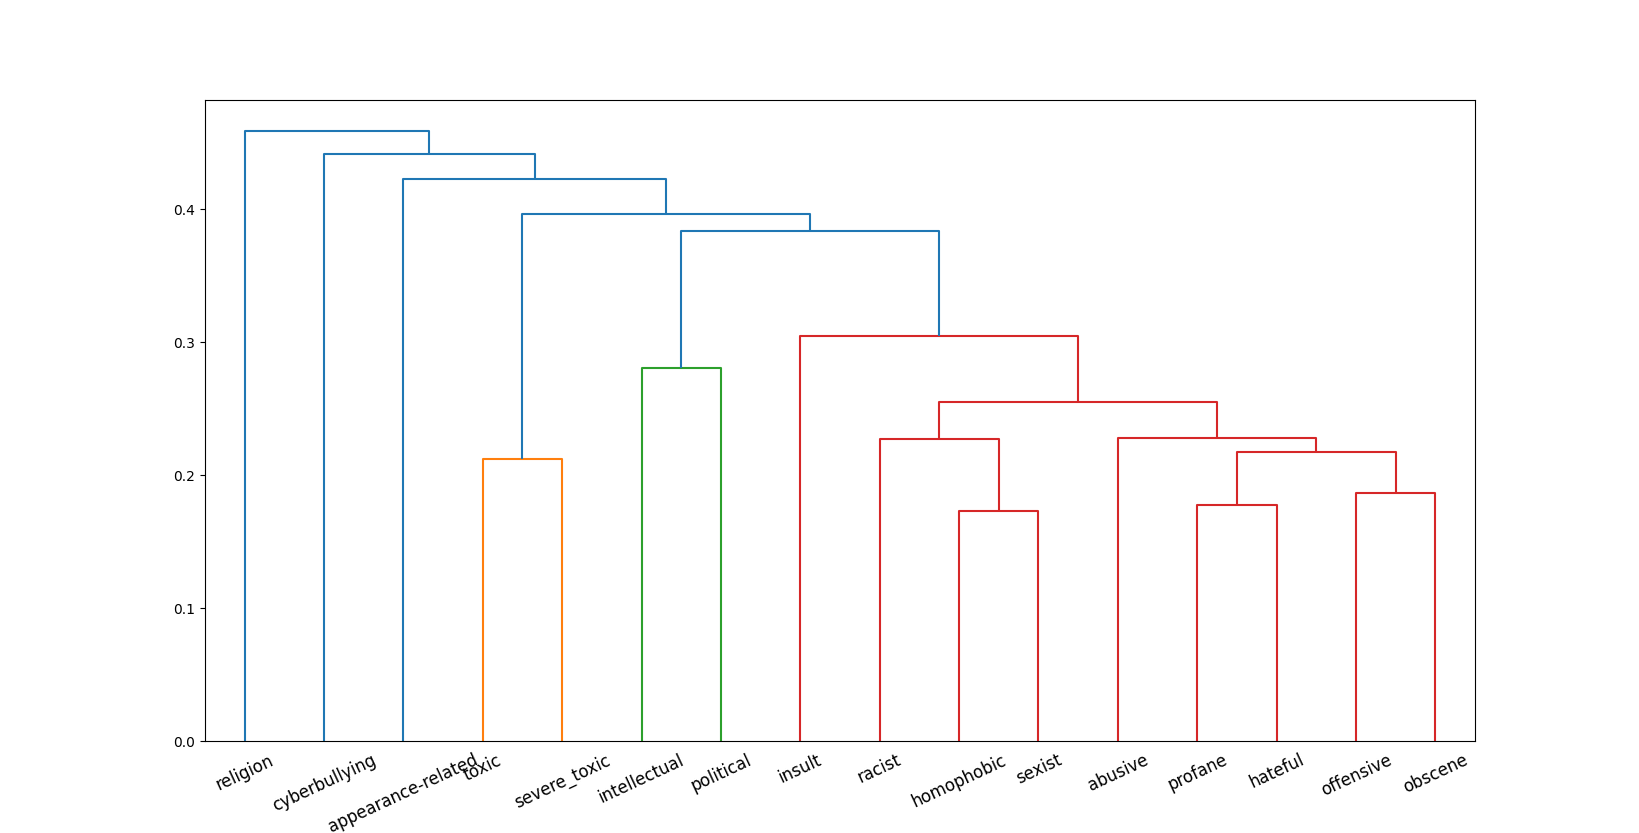
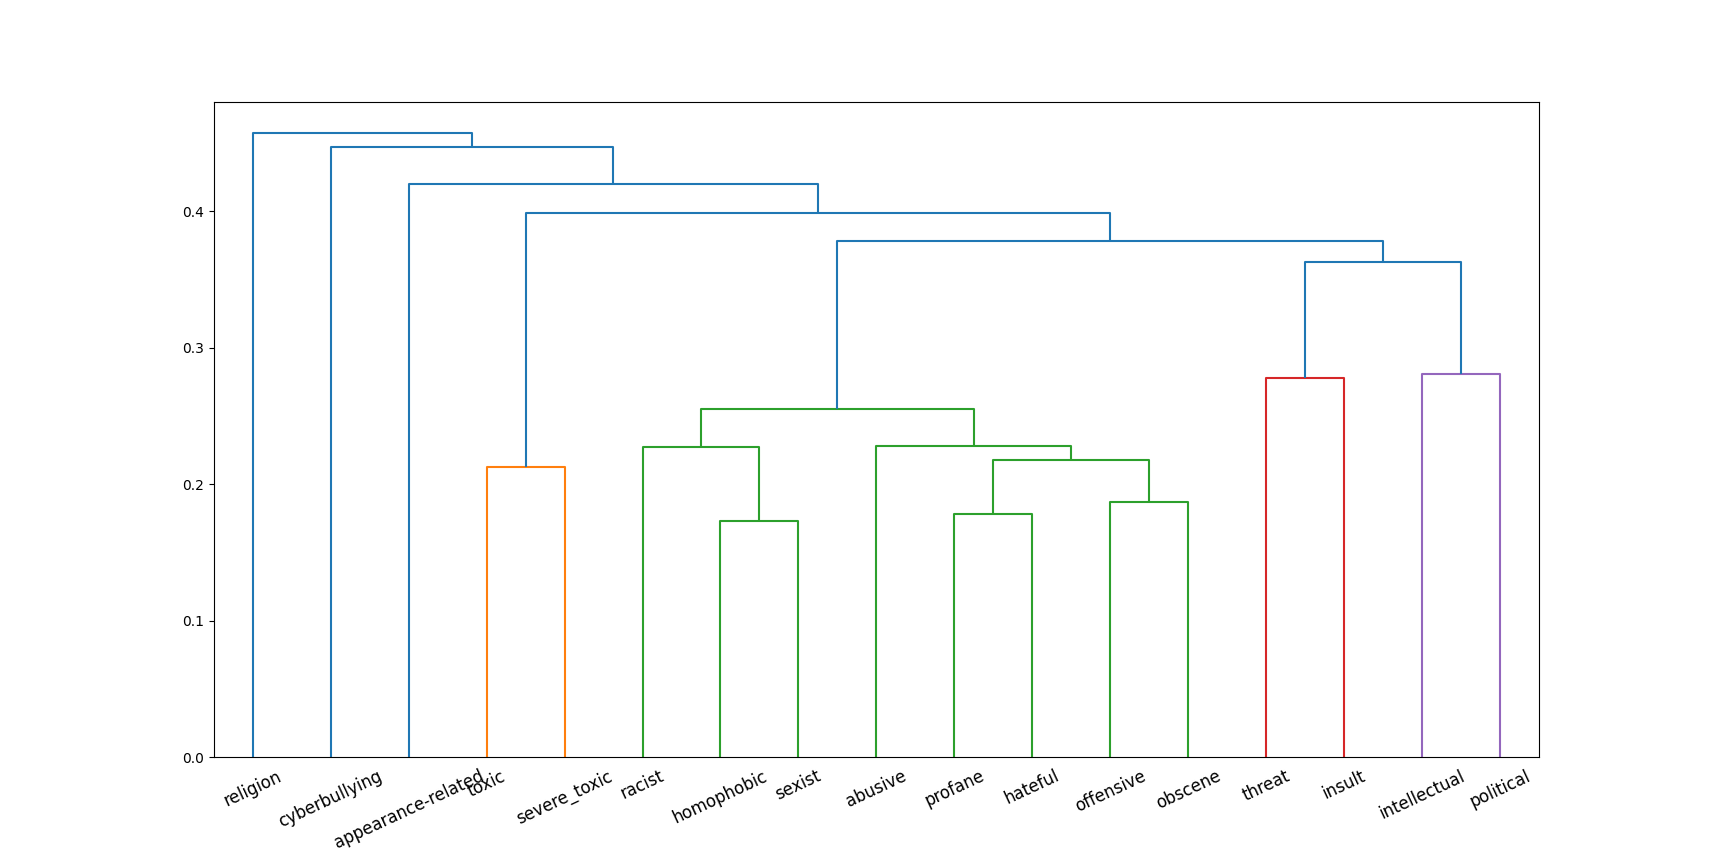
added threat to BERT

diff --git a/bert_vectors.py b/bert_vectors.py
@@ -1110,6 +1110,163 @@ mean[10] = tensor([ 2.7645e-01,  2.9270e-01,  3.0537e-01, -2.7301e-01, -1.3556e-
 
 sent[10] = "FUCK YOU NATLIE YOU DUMBASS CUNTBAG! I HAVE A DYNAMIC IP U CANNOT BAN ME TOUGH SHIT AINT IT CUNT? so go suck some random ass fuckers cock, before i vandalize your entire site.. B-I-O-T-C-H! DONT MAKE ME COME FIND YOUR ASS IN OHIO, I READ YOUR WIKI ENTRY! KNOCK KNOCK* YOUR DUMB PUTTING THAT MUCH PERSONAL INFO OUT THERE AND CALLING OUT TROLLS WITH DYNAMIC IP RANGES YOU DUMB BITCH!"
 
+mean[11] = tensor([ 3.5059e-01,  3.7075e-01,  3.2717e-01, -3.5658e-01, -1.8401e-01,
+        -6.1970e-02,  2.6885e-01,  4.9889e-01, -1.1943e-01, -1.2530e-01,
+         1.1779e-01, -3.3195e-01, -2.8655e-01,  3.8293e-01, -2.1169e-01,
+         6.7963e-01, -1.7705e-01,  2.0741e-01, -2.9433e-01,  4.3294e-01,
+         3.6073e-01,  2.0918e-01, -9.1899e-02,  7.2883e-03,  2.6348e-01,
+         2.2271e-01, -2.8148e-02, -1.6331e-01, -3.9629e-01,  7.3247e-02,
+         3.3939e-01, -1.0695e-02,  8.4118e-02, -2.5605e-01,  1.1354e-01,
+        -3.2891e-01, -2.2363e-02,  4.9820e-02, -1.6295e-02,  1.7508e-01,
+        -3.3164e-01, -2.5603e-01,  1.2197e-01, -1.3128e-01, -2.3263e-03,
+        -2.2184e-01,  3.1194e-01, -2.7015e-01,  3.5891e-02, -2.6753e-01,
+        -3.7893e-01,  1.5759e-01, -4.6895e-01, -4.7870e-01,  2.6937e-01,
+         1.8924e-01,  4.7376e-02, -5.9060e-01, -3.5978e-01,  8.2165e-02,
+        -1.6190e-01, -3.1492e-02,  1.6868e-01, -1.4224e-01, -2.3116e-01,
+         2.1832e-01,  1.2975e-01,  3.6757e-01, -6.0244e-01, -1.1960e-01,
+        -8.2933e-02, -1.2006e-01,  1.1830e-01,  1.4457e-01,  2.0294e-01,
+        -2.8826e-01, -1.8917e-01,  1.9466e-01, -3.4433e-01,  6.6005e-04,
+         4.4796e-02,  2.3921e-01,  6.3836e-02,  1.6406e-01,  5.4014e-02,
+         4.6151e-02,  8.0733e-02,  1.8669e-01, -2.6682e-01,  2.4199e-01,
+        -1.3884e-01, -7.3430e-02,  3.6655e-02, -2.4683e-02,  4.8379e-01,
+        -3.3485e-01,  1.5252e-03,  1.6933e-01, -8.4642e-02, -2.1864e-01,
+         4.1244e-01, -3.3921e-01,  3.8871e-02, -5.4459e-01, -9.6324e-02,
+         8.1809e-03, -8.1540e-02, -1.8427e-02,  3.4483e-01, -1.5992e-01,
+         1.3260e-01, -1.0965e-01,  1.1111e-01, -5.3816e-01,  5.3695e-02,
+         2.8059e-01, -2.9692e-01, -5.3812e-02,  3.5836e-01, -1.5437e-01,
+        -2.2593e-01, -1.4900e-01,  1.3166e-01,  1.7427e-01,  1.8300e-01,
+         4.4794e-02, -9.2913e-02, -1.3654e-01,  8.3745e-02,  1.3023e-01,
+         3.0319e-01,  2.5357e-01,  1.6809e-01, -2.7128e-01,  3.8658e-02,
+         1.2812e-01,  2.5968e-01, -3.4907e-01, -2.9237e-01, -3.0670e-01,
+        -2.6923e-01, -3.3671e-01, -3.8735e-02,  4.7384e-01,  1.9727e-01,
+        -9.2994e-02, -4.0846e-01, -2.6618e-02,  1.7460e-01,  4.6088e-02,
+        -2.5179e-01,  2.3837e-01, -2.8446e-01, -2.8987e-01, -3.4071e-01,
+        -1.9092e-01, -1.6444e-01, -1.7267e-01,  1.8910e-01,  8.2247e-02,
+         2.1692e-01, -3.3193e-01, -1.9598e-01,  1.9381e-01,  2.5515e-01,
+        -1.9906e-01, -1.9184e-02,  2.2004e-01, -3.9237e-02, -1.7445e-01,
+         8.8766e-02, -1.6008e-01,  3.8808e-01,  1.8922e-01,  5.0101e-01,
+        -7.4862e-02,  2.0473e-01, -8.7399e-03, -1.2835e-01,  4.6593e-01,
+        -4.7244e-01,  3.8613e-02, -7.9827e-02,  1.4344e-01, -7.3670e-02,
+         2.6029e-01,  5.0599e-01, -3.4153e-01,  3.0621e-01,  2.6041e-01,
+        -3.0284e-01,  5.5081e-02,  1.3220e-01, -3.9779e-02,  3.3013e-01,
+        -3.3047e-01, -3.1998e-01, -5.5592e-01,  3.9586e-02,  1.1171e-01,
+        -1.7719e-01,  2.8570e-01,  4.0418e-02, -1.2544e-01, -4.0381e-01,
+         4.8995e-01, -2.5847e-01, -5.7847e-02, -2.5507e-01,  2.1685e-01,
+        -5.8277e-02,  2.1719e-01, -1.7308e-01,  9.9629e-02, -9.4328e-02,
+         5.8643e-02, -8.4795e-02,  3.8322e-02,  2.0503e-01, -1.2212e-01,
+        -1.0023e-01, -2.6010e-01, -4.2856e-01, -5.9401e-02, -5.7967e-02,
+         8.7060e-01,  1.4854e-01, -3.7891e-01,  2.7005e-01, -4.9699e-02,
+        -1.7824e-02, -2.0696e-01,  6.0393e-02, -9.8036e-02, -4.9040e-03,
+         3.3799e-01,  1.6325e-01, -3.6056e-01, -2.0576e-02, -8.0928e-02,
+        -4.2488e-01,  3.1872e-01,  1.7333e-01,  1.4506e-01, -1.6985e-01,
+         3.8690e-01, -2.9370e-01, -3.7175e-01, -2.3296e-01,  1.6884e-01,
+        -3.3290e-01, -1.5143e-01, -2.4717e-01, -3.7329e-01,  4.1050e-02,
+        -3.0262e-01, -2.6551e-01, -1.0512e-01, -3.1201e-01, -3.0770e-01,
+         9.3117e-02, -2.8727e-01, -1.3773e-01,  1.4861e-01,  5.2693e-02,
+        -9.8141e-02,  5.4020e-02,  2.9725e-01,  3.2903e-01,  3.3956e-01,
+         8.3291e-02,  2.3319e-01, -1.1239e-01,  4.6623e-01,  2.8841e-02,
+        -1.6912e-02,  1.9529e-01,  1.4507e-01,  1.9811e-02, -3.2180e-01,
+        -1.4616e-03,  2.7571e-01, -3.6321e-01,  1.0025e-01, -1.0410e-01,
+        -2.3022e-01,  6.6695e-01,  2.6758e-01, -2.1679e-01, -1.7660e-01,
+        -2.9979e-01, -4.4040e-02, -4.2485e-01, -1.1087e-01,  4.7000e-01,
+        -2.1704e-01,  1.1398e-02,  1.7308e-01, -9.1608e-02, -2.0397e-01,
+        -1.2444e-01,  8.8616e-02, -2.8627e-01,  2.2656e-01,  1.4652e-01,
+        -8.5638e-02, -4.7204e-01, -1.5143e-01, -8.2335e+00,  8.6811e-03,
+         9.5239e-02,  1.6428e-02,  4.8414e-01, -4.7338e-02,  4.1004e-02,
+        -1.5335e-01, -4.2221e-01,  4.0297e-03, -2.1068e-02, -2.6864e-01,
+         1.5843e-01, -2.8587e-01,  2.8264e-02, -4.4881e-01,  3.2126e-01,
+        -4.3328e-01, -1.9767e-01,  6.1494e-01, -1.6502e-01, -1.2609e-01,
+         3.5863e-01, -8.3931e-02,  1.8184e-01,  4.1588e-01,  1.2931e-01,
+        -1.1649e-01,  6.8477e-02, -1.8435e-01, -4.0349e-01, -2.7660e-01,
+        -1.1846e-01,  6.5105e-01, -1.4286e-01,  7.7301e-02, -1.2420e-01,
+        -2.9081e-01, -2.0356e-01, -2.1318e-01,  1.7291e-01, -6.8362e-01,
+        -3.0474e-01, -1.1501e-01,  7.7710e-01, -3.8511e-01, -1.3111e-01,
+        -5.0038e-02,  4.9290e-02,  2.8733e-02, -2.0585e-01, -2.4045e-01,
+         9.0892e-02, -4.2205e-01,  1.9516e-01,  2.3037e-01,  2.5531e-01,
+         9.1175e-01,  1.3966e-01, -6.3814e-01,  3.7681e-01, -3.0841e-01,
+        -6.8122e-01,  1.8875e-01,  2.3855e-02, -1.2504e-01, -3.7141e-01,
+        -5.1152e-01, -1.6576e-02, -4.9429e-02, -2.7122e-01,  5.7450e-01,
+         2.2114e-02, -1.1071e+00, -3.5363e-01,  1.6456e-01, -1.8376e-01,
+         1.3364e-01, -3.8427e-01, -1.1198e-01, -4.9554e-01, -4.5331e-01,
+         7.3835e-02,  2.2303e-02, -2.3497e-01, -2.4078e-01, -9.7614e-02,
+        -6.9995e-02, -2.2895e-01,  5.7294e-02,  7.0800e-02,  8.2189e-02,
+         1.1653e-01,  1.3870e-01,  1.3370e-01, -2.9816e-02,  4.8409e-01,
+        -2.2737e-01, -1.9680e-01, -5.3141e-02,  7.8933e-02, -7.6906e-02,
+         3.6626e-01, -1.6907e-01, -4.4941e-02, -1.0238e-01, -1.1658e-01,
+        -1.3583e-03, -3.0630e-01,  7.7721e-02,  1.4004e-01, -9.9724e-02,
+         3.5274e-02,  1.4567e-01, -1.3054e-01, -3.4874e-01,  7.3711e-02,
+         3.1687e-01,  5.4531e-02, -4.6590e-01, -2.3865e-01,  2.5646e-01,
+        -6.1201e-01, -4.0161e-01, -3.3875e-02, -6.8970e-02, -8.3353e-02,
+         2.0538e-01, -1.9062e-01, -2.2497e-03, -1.0612e-01, -3.8003e-02,
+        -4.3672e-01,  1.1442e-01,  4.1149e-02,  1.5896e-02, -5.8910e-02,
+        -5.9031e-01, -2.6186e-01,  3.0571e-01,  1.1880e-01,  3.5516e-01,
+         1.8749e-01,  1.6633e-01, -1.7869e-01,  1.5189e-01, -2.6387e-01,
+         1.5974e-02,  1.6093e-02,  4.5417e-01, -2.0019e-01, -6.1172e-01,
+         7.6304e-02, -3.2636e-01,  1.1614e-01,  4.1408e-01,  9.2364e-02,
+        -9.6334e-02,  9.8111e-02, -4.8800e-01,  3.0202e-02, -2.1629e-02,
+        -1.2814e-01,  2.2336e-01,  2.3685e-01,  1.6687e-01, -1.4566e-01,
+        -3.3429e-02, -1.5883e-01, -1.1895e-01, -1.7819e-01,  3.3846e-01,
+         2.4863e-01,  1.4895e-01,  2.0075e-01,  1.7985e-01, -7.8423e-02,
+        -1.3358e-01,  2.4131e-01, -7.9173e-02, -9.8648e-02,  6.8322e-02,
+        -9.9759e-04, -2.1110e-01,  2.7155e-01, -1.0062e-01,  2.0396e-01,
+         4.7154e-02, -1.7728e-02,  2.0336e-01, -7.2763e-01,  4.8320e-01,
+        -3.8724e-02, -2.6528e-01, -1.1693e-01, -3.9516e-01,  2.2004e-01,
+        -3.4386e-01,  4.6498e-02,  7.1232e-01,  1.3370e-01,  7.4456e-03,
+        -1.2878e-01,  3.1587e-01, -2.6513e-01,  1.4591e-02, -1.8717e-01,
+         3.3225e-01,  1.5552e-01,  1.4112e-01,  4.5058e-02, -2.3474e-01,
+        -1.6962e-01, -1.6908e-01,  1.3674e-02, -3.7479e-01,  1.0455e-02,
+        -3.8451e-01, -9.0378e-01,  3.3905e-01, -1.4057e-01, -1.9279e-01,
+        -1.3322e-01,  3.5240e-01, -5.2725e-01,  5.4333e-03, -2.0434e-01,
+        -9.6811e-02,  1.5542e-01,  2.0346e-01,  1.2471e-02, -1.0444e+00,
+         2.4438e-01, -1.7802e-02, -9.6871e-02, -1.6994e-01,  2.0559e-01,
+         7.5135e-03, -8.1692e-02, -1.1993e-01,  6.9056e-02, -4.3095e-01,
+        -1.8122e-01, -2.0613e-01,  3.8991e-02,  6.1598e-02, -1.7104e-01,
+         9.4275e-02, -2.3927e-01, -7.8088e-02,  2.4388e-01,  3.9315e-03,
+        -2.1217e-01, -4.5728e-01, -1.2636e-02, -5.4941e-01, -3.7520e-01,
+         1.5149e-01,  1.8179e-01,  1.5430e-01, -1.6843e-01,  1.2390e-01,
+         2.6906e-01,  9.0122e-02, -2.0361e-02, -5.2731e-02,  2.1862e-01,
+         1.5515e-01, -3.2030e-01, -1.8360e-01, -1.7164e-01, -1.7745e-01,
+        -4.4674e-02, -1.6524e-01,  1.4028e-01,  7.1568e-03, -3.6920e-01,
+        -3.9055e-01,  3.3179e-01, -3.4067e-01, -1.0503e-01, -3.6253e-02,
+        -8.2927e-03, -1.0831e-01,  4.8369e-02, -4.3040e-01,  9.3272e-02,
+        -1.1824e-02, -1.5360e-01,  1.9392e-01,  1.5940e-01,  2.7795e-01,
+         6.0803e-02, -1.3015e-02,  1.2233e-01,  4.5946e-01,  4.9325e-01,
+        -1.6048e-01,  1.2570e-01,  9.8031e-02, -8.1742e-02, -1.7582e-02,
+         2.6855e-01,  1.3736e-01,  6.8576e-03,  1.3277e-01,  1.0870e-01,
+        -1.3303e-01, -9.1550e-02,  2.1777e-01, -4.1148e-01, -2.8402e-01,
+         5.5180e-01,  1.6589e-01, -1.3651e-02, -2.4498e-01, -1.2910e-01,
+        -1.3029e-01, -2.4990e-01, -9.0193e-02,  8.7793e-03,  1.3981e-01,
+         5.4858e-01,  2.6001e-02,  1.9550e-02,  1.8513e-01, -1.9477e-01,
+         9.8519e-02,  2.4699e-01,  2.9157e-01, -3.1194e-01,  3.9277e-02,
+        -2.2986e-01,  2.8561e-01, -3.9204e-04, -1.2270e-01,  9.0748e-02,
+        -1.3967e-01,  1.4122e-01,  2.6923e-01,  2.5165e-02,  1.6462e-01,
+         1.7709e-03,  4.4350e-01,  1.3081e-01, -7.8252e-03, -3.2954e-01,
+        -3.4621e-04,  7.1327e-01,  3.3139e-01,  1.6950e-01, -2.1683e-02,
+         8.5900e-02, -1.6251e-02,  4.8637e-01,  1.6740e-02,  1.5754e-01,
+         1.6574e-01, -1.3944e-01,  4.4796e-01,  1.9929e-01,  1.1080e-01,
+        -2.3682e-02, -3.1549e-01,  1.1053e-02,  6.0849e-02,  1.6850e-01,
+        -5.7994e-02, -9.9308e-02, -1.3191e-01,  1.0249e-01, -1.7652e-01,
+         2.5911e-01,  5.9601e-02, -1.6966e-01,  1.3382e-01, -1.6727e-01,
+        -1.5407e-01, -1.0518e-01, -7.4425e-02, -2.9645e-01,  7.5208e-02,
+        -2.7054e-01, -2.3454e-01,  1.8624e-01, -2.5717e-01, -1.1647e-01,
+        -3.4990e-01,  5.5430e-02, -2.7717e-01, -2.9517e-01,  1.9326e-02,
+        -4.3748e-03, -1.1738e-01,  1.8636e-01, -8.7535e-02,  9.7430e-02,
+         6.0237e-02,  3.1746e-01,  1.3050e-01,  1.2657e-01,  4.3071e-02,
+        -1.1988e-01,  1.9137e-01, -7.7935e-02,  3.8017e-02, -3.3603e-01,
+        -6.8096e-03, -1.9703e-01, -4.0833e-01, -1.2304e-02,  4.9369e-01,
+        -7.6274e-02,  2.9343e-01,  1.2005e-02,  1.9983e-01, -4.9460e-02,
+        -4.5594e-01, -2.4786e-01, -1.3087e-01, -3.1617e-01, -6.6713e-01,
+        -2.3794e-01,  1.9449e-01, -4.1635e-03, -4.1479e-01,  2.2631e-01,
+        -1.2820e-01, -3.8691e-02,  2.9442e-03, -1.4259e-02,  2.9599e-01,
+         9.4435e-02, -2.5368e-01, -2.0743e-01, -2.3271e-01, -7.0831e-02,
+         4.2369e-02, -9.5437e-02, -8.1357e-02,  1.8530e-01,  1.3671e-01,
+        -1.6049e-01, -1.0483e-01,  1.6617e-01,  1.3824e-01,  1.1997e-01,
+        -1.7151e-01, -1.5571e-01,  2.5017e-02, -3.4149e-01,  9.0193e-03,
+         1.8238e-02, -2.2287e-01,  1.1541e-02,  2.5292e-01, -1.2899e-01,
+        -3.3882e-01,  1.5074e-01, -5.6008e-02])
+
+sent[11] = "BTW, I love to harrass, so try banning me for a year to stop me. I WISH ZHANZHAO DIE DIE DIE! I WILL RAPE YOU, YOUR MOTHER AND YOUR GAY FRIEND's ASS!!! Nuff' said"
+
 mean[13] = tensor([2.9773e-01, 9.1531e-02, 4.1314e-01, -2.0627e-01, 3.4043e-02,
                    -1.9515e-01, 2.5373e-01, 5.2316e-01, -2.9996e-01, -1.6494e-01,
                    4.3636e-02, -3.1409e-01, -7.0421e-02, 3.0959e-01, -1.2159e-01,
@@ -5645,6 +5802,163 @@ mean3[10] = tensor([ 1.1264e+00,  7.4301e-01,  2.3260e-01, -4.7148e-01, -5.6543e
          2.8489e-01, -5.5739e-01, -3.1573e-01])
 
 sent3[10] = "is all pretty gay if u ask me...bunch or fucking retards. You are a wife beater/cunt slapper. That's right I called your wife a cunt. BITCHES!!!!."
+
+mean3[11] = tensor([ 9.0207e-01, -3.8312e-01,  9.2688e-01, -8.3139e-01,  7.9668e-01,
+        -4.8623e-01,  4.8218e-01,  1.6361e-01,  1.6759e-01, -5.7382e-01,
+        -4.5831e-01, -1.0176e+00, -3.2602e-01,  7.3628e-01, -1.1693e+00,
+        -5.7170e-02,  3.4783e-01, -5.6915e-01,  5.5215e-01,  9.7830e-02,
+         3.0572e-01,  1.1192e-01,  9.7007e-01, -4.7283e-01,  1.8188e-01,
+         6.4321e-01,  2.6581e-01,  4.7226e-01, -1.0874e+00,  4.4405e-01,
+         6.4255e-01,  4.4154e-01,  1.7161e-01,  1.6451e-01, -1.0830e+00,
+        -7.5210e-01,  4.1676e-02,  9.4120e-01, -9.6180e-01,  2.2283e-01,
+        -3.1674e-01,  6.3931e-01, -2.5887e-01,  2.2737e-01,  5.3427e-03,
+        -2.4624e-01, -8.3739e-01, -5.4767e-01,  6.2636e-01, -5.5939e-01,
+        -1.6186e+00,  1.0659e+00, -1.2946e+00, -7.3393e-01, -3.0013e-02,
+        -2.0715e-01,  1.9559e-01, -7.7742e-01, -4.4016e-02, -6.8619e-01,
+         3.1775e-01, -2.2203e-01,  3.9092e-01,  2.4609e-01, -4.8160e-01,
+         1.9280e-01,  3.8155e-01, -2.5090e-01, -2.6958e-01, -9.9860e-01,
+        -1.1615e+00,  1.6133e-01, -1.0424e+00,  5.4370e-01,  4.0788e-01,
+         2.7153e-01,  8.8529e-02,  7.5507e-05, -1.8838e-01,  3.6293e-01,
+         1.0350e+00, -5.7297e-01, -2.5971e-01, -8.2764e-01,  1.5716e-01,
+        -4.0650e-01, -3.7093e-02,  5.4216e-01, -2.0341e-01,  1.1113e+00,
+         7.6687e-01,  4.9196e-01,  6.2321e-02,  4.9171e-01,  1.1294e+00,
+        -2.6465e-01,  7.0558e-01,  1.6788e-02, -3.4038e-01, -5.8814e-01,
+         8.2223e-01,  6.3682e-01, -1.2766e-01, -1.3294e+00, -6.1439e-01,
+        -2.1537e-01, -5.5249e-01, -5.1003e-01,  6.1032e-02,  4.6820e-01,
+        -8.5691e-01,  6.3215e-01,  6.9571e-01, -5.5062e-01, -8.1410e-01,
+         5.8908e-01, -9.0039e-01, -5.2408e-01,  2.6453e-01, -3.5449e-01,
+         3.0473e-01,  1.3852e-02,  2.4026e-01,  2.5166e-01,  3.7844e-01,
+         7.7140e-01,  4.1091e-02,  4.1546e-01,  7.3296e-02,  2.9487e-01,
+         2.1716e-01,  7.2141e-01, -5.0422e-01,  5.3573e-01, -4.2477e-01,
+         8.3926e-02,  1.3668e+00, -1.0220e+00, -9.3606e-02, -5.7959e-01,
+         8.4492e-01,  2.0791e-01, -1.7582e-01,  4.5687e-01,  3.2762e-01,
+         1.3748e-01, -2.3059e-01, -1.8860e-01, -9.2322e-01,  3.9672e-01,
+        -3.0661e-01, -3.9306e-01, -6.0920e-01, -1.0664e+00, -7.2853e-02,
+         5.8488e-01, -3.4507e-01, -3.0170e-01, -1.3408e-01,  1.7794e-01,
+         1.3454e+00,  4.2822e-01,  1.9299e-01,  3.8175e-01,  6.7683e-01,
+        -1.9887e-01, -3.9110e-01,  2.7044e-01,  6.8136e-02, -8.0780e-01,
+        -6.2131e-01,  8.2880e-01,  6.4184e-01, -4.6607e-01, -3.0245e-01,
+        -1.6169e-01,  7.5161e-01,  6.2817e-01, -2.9075e-01,  7.9493e-01,
+        -1.6702e-01,  2.2794e-01,  2.8255e-01,  1.1349e+00, -7.9073e-01,
+        -4.1212e-01,  1.3214e+00,  3.8557e-02, -4.9756e-01, -9.8338e-02,
+        -3.3567e-02,  3.3393e-02,  3.9855e-01, -8.9385e-01,  4.6268e-01,
+        -1.2516e+00,  4.9718e-02,  2.3198e-01, -4.5837e-02, -4.0253e-01,
+        -1.1704e-01,  4.8504e-01,  5.5676e-01,  4.8297e-01, -1.0558e+00,
+        -3.6905e-02,  3.7130e-01,  1.1355e-01, -2.8622e-01,  1.0077e+00,
+        -3.0940e-01, -3.4104e-01,  3.9661e-01,  9.9377e-02,  5.6359e-01,
+         9.1717e-01, -2.1687e-02,  2.1504e-01,  3.1648e-01, -4.9765e-01,
+         3.4830e-01,  9.1046e-02,  2.5733e-01, -1.9067e-01,  1.9879e-01,
+         5.4697e-01,  9.0078e-02, -4.1107e-01,  9.7372e-01, -6.6573e-01,
+        -1.8617e-02,  3.1595e-01, -1.4905e-01, -2.9174e-01,  2.9241e-01,
+         1.0431e-01,  3.3584e-01,  7.2471e-01, -8.8485e-01, -6.8843e-01,
+        -4.9311e-01,  3.2329e-01, -7.8995e-01,  6.8061e-01, -4.5744e-01,
+         1.8408e-01, -1.3765e-03, -4.1498e-01, -3.9543e-01, -4.0318e-01,
+        -9.0941e-01,  7.3300e-01,  2.2845e-01,  7.5258e-01, -5.5556e-01,
+         1.7815e-01,  3.7806e-02, -5.1182e-01, -2.5758e-01, -2.7820e-02,
+        -8.5678e-02, -4.2409e-02, -8.6688e-01,  1.2379e+00,  1.3179e-01,
+         2.5808e-01,  9.3472e-01,  5.2295e-01,  5.2083e-01, -2.8695e-01,
+        -3.4177e-01, -7.5995e-01, -1.3604e-01,  2.6406e-01, -9.7531e-01,
+        -1.7784e-01,  1.4380e-01, -6.1149e-02,  5.0200e-02, -4.0561e-01,
+        -3.3329e-01, -2.2789e-02,  6.4808e-01, -5.2514e-01,  1.2470e+00,
+        -2.8905e-01,  3.6626e-01, -7.3533e-01, -6.6518e-01,  1.5654e-01,
+         8.1508e-02, -8.6276e-02, -1.0465e+00, -1.9993e-01, -1.7246e-02,
+        -1.5507e-01,  3.7887e-01,  4.8768e-01,  8.4006e-02, -3.0185e-01,
+        -3.4409e-01,  5.7617e-01,  2.5852e-01,  1.2509e+00, -1.7075e+00,
+         4.3768e-01, -3.8273e-01,  1.1585e-01, -1.4240e+01, -3.8467e-01,
+         2.6358e-01, -4.9461e-01, -3.4801e-02,  3.4012e-02, -3.5164e-01,
+        -4.1466e-01, -1.0112e-01,  7.6898e-01,  5.6966e-01,  3.7213e-01,
+         3.7387e-01, -8.4238e-01,  4.0364e-01, -1.2389e+00, -7.0210e-01,
+        -8.1532e-01,  2.3385e-02,  6.9300e-01, -6.6726e-01, -1.3284e-02,
+        -2.3799e-01,  1.0347e-02,  1.8341e-01,  1.0483e-01,  1.7297e-01,
+         1.0115e-01, -4.1107e-01,  8.0804e-03, -1.4072e+00, -2.9119e-01,
+         3.8925e-01, -8.2889e-01, -8.5721e-01, -2.3611e-01,  2.8578e-01,
+        -2.6254e-01, -8.4665e-01, -7.5549e-01, -8.3526e-01, -1.1673e+00,
+         3.7386e-01,  7.2196e-01, -2.1483e-01, -1.2693e+00, -7.2970e-01,
+         8.4636e-01,  1.6474e-01,  9.3858e-01, -6.1650e-01, -3.0277e-01,
+        -1.8186e-01, -1.8977e-01,  1.2638e-01, -1.9770e-01,  8.5129e-01,
+         4.0159e-01, -3.4315e-01, -1.1818e-01, -3.8046e-01, -3.9997e-01,
+        -3.3375e-01,  5.2465e-02,  7.4693e-01, -3.7219e-01, -7.9024e-01,
+        -3.8885e-01,  4.1529e-01, -9.8745e-01, -2.0561e-01, -2.2936e-01,
+        -7.3703e-02, -1.7764e+00, -5.7438e-01, -1.2452e+00, -1.1416e-01,
+        -1.5199e-01,  6.0952e-01, -1.3301e+00,  1.2728e-01, -7.4145e-01,
+        -1.7858e-01,  6.0320e-01,  4.6264e-01, -5.0047e-01,  2.4478e-01,
+        -1.5626e-01, -2.3979e-01,  6.3395e-01, -1.6341e-01, -1.3834e+00,
+         6.7606e-01,  4.7499e-02,  7.9483e-01,  4.3761e-01, -2.3887e-02,
+        -2.2523e-01,  1.1694e-01,  9.2187e-01,  6.6323e-01,  9.2347e-01,
+        -1.0263e-01, -6.8515e-01,  4.2607e-01, -6.4587e-01, -2.9716e-01,
+         6.6226e-01,  4.1457e-01,  2.7735e-01,  3.6211e-01, -9.5263e-02,
+         1.3290e-01, -4.1822e-01, -2.3297e-01, -4.1058e-01, -2.2039e-01,
+         9.7413e-01,  3.8467e-01,  6.4727e-02, -2.0066e-01,  3.4434e-01,
+        -5.0772e-01, -4.0209e-01, -5.2593e-01, -7.4991e-02, -9.4213e-01,
+         1.4991e+00, -1.0605e+00, -8.1200e-01,  7.4742e-01,  9.2822e-01,
+         1.4876e-01,  2.3831e-01,  5.3599e-01,  6.8721e-02, -2.8570e-01,
+        -3.6398e-01,  1.0530e+00, -5.1959e-02, -1.0007e-01, -3.6193e-01,
+        -4.1689e-01, -6.0538e-01,  3.5999e-02, -4.4762e-01, -1.8191e-01,
+         3.8116e-01,  3.6456e-02,  2.7210e-01, -2.7663e-01, -2.9164e-01,
+         7.2219e-01,  3.3116e-01, -6.0439e-01, -1.0417e-01,  1.1998e+00,
+         4.5562e-01, -5.4551e-01,  1.8478e-01, -3.3626e-01,  9.7747e-02,
+         1.2307e+00, -6.2085e-01, -5.1105e-01, -2.3472e-01,  7.5112e-02,
+         2.1000e-01, -4.3276e-01, -1.4707e-02, -1.8260e-02,  4.8936e-02,
+        -4.2870e-01,  3.3954e-01,  7.8529e-01,  2.5297e-01, -1.1814e+00,
+        -5.6194e-01, -1.0561e+00,  1.6175e-01,  1.1480e+00,  5.0284e-01,
+         3.1264e-01,  1.3141e-01,  7.0081e-01,  7.0397e-02,  5.5006e-02,
+        -7.2312e-01,  3.2189e-01,  2.4922e-01, -2.0728e-01, -1.6314e-01,
+        -5.2189e-01, -9.0899e-01,  3.0633e-01,  4.5169e-01,  3.3179e-01,
+        -7.9115e-01, -1.0891e-01,  4.7552e-01,  1.1407e+00,  1.7136e+00,
+        -2.2756e-01, -7.9326e-02,  2.4710e-01,  2.0999e-01,  1.4063e+00,
+         5.8692e-02,  9.2212e-02,  2.8200e-02,  2.0007e-01, -2.6098e-01,
+        -7.5322e-01, -9.0503e-02,  1.7362e+00, -5.0960e-01, -6.7565e-02,
+        -1.3372e+00, -3.1856e-01,  9.2612e-01, -7.5102e-02,  1.2390e-01,
+        -1.0363e+00,  3.9730e-01, -6.7462e-01, -9.2523e-01,  9.3847e-01,
+         3.5030e-03, -7.6088e-04, -1.4020e-01,  2.7896e-01, -2.1032e-01,
+         4.4360e-02, -6.6929e-01,  6.0429e-01, -9.9294e-02, -5.1817e-01,
+        -1.9860e-01,  2.5333e-01,  3.1120e-01, -8.1009e-01, -1.7315e-01,
+        -4.9295e-01, -1.1419e-01,  2.0580e-01,  4.9969e-01,  1.2303e-02,
+         4.5948e-01, -1.2733e-01, -1.6449e-01,  4.6652e-01, -1.4207e-01,
+        -9.1453e-01,  1.1934e-01,  4.0195e-01, -1.1679e+00, -2.1659e-01,
+        -1.1624e-01, -7.6972e-01,  1.3105e+00, -8.4909e-02,  6.0179e-01,
+        -5.7483e-01, -2.5293e-01, -1.3424e-01, -3.9281e-01,  4.5891e-01,
+         3.0885e-01, -7.7880e-01,  1.0528e-02, -2.0715e-01, -6.1711e-01,
+         2.9727e-02,  4.4192e-02, -7.3635e-01,  2.1301e-01, -4.9094e-01,
+        -1.0158e+00, -1.4392e+00,  1.3604e+00, -3.1810e-01, -2.0588e-01,
+        -1.3152e-01, -1.1385e+00, -5.3205e-01, -1.3370e-01, -1.3803e-01,
+        -2.6148e-01,  5.5734e-01,  6.1379e-02,  8.0784e-01,  4.3182e-01,
+         1.5117e-01, -3.2043e-01,  2.6952e-01,  5.4244e-01, -2.1155e-01,
+        -2.5489e-01,  3.3870e-02,  1.0274e-01,  6.7116e-02,  5.9991e-01,
+         6.6367e-02, -8.1481e-02, -4.2833e-01,  4.4955e-01, -4.4287e-01,
+         1.9328e-01, -2.8429e-01,  5.0816e-01,  3.9357e-01,  6.2781e-01,
+         1.6564e-01,  4.1617e-01, -7.3983e-01,  7.4680e-01,  2.9789e-01,
+         2.8130e-03,  5.8966e-02,  1.1470e+00,  5.5355e-02,  3.2090e-01,
+         2.6034e-01,  9.0798e-02,  3.1977e-01, -3.6770e-02, -3.2791e-01,
+         4.6096e-01,  2.7378e-01, -3.5612e-01,  6.7427e-01,  4.4494e-01,
+        -1.4567e-01, -4.0215e-01, -2.1949e-01, -7.8325e-02,  6.2696e-01,
+         4.9130e-01,  7.6168e-01,  5.2443e-01,  5.5941e-01,  1.0049e-01,
+        -6.7183e-01, -3.8505e-01,  3.7794e-01, -3.8868e-01,  2.4841e-01,
+         7.7641e-01,  2.1318e-01,  4.7949e-01, -4.0281e-02,  5.1914e-01,
+        -2.2374e-01, -7.2616e-01,  1.4305e+00, -8.3885e-01,  1.7563e-01,
+         1.6299e-01, -5.4273e-02,  3.2656e-01, -1.6905e-01, -5.8556e-01,
+         2.5819e-01, -5.1652e-02,  8.1563e-01, -1.0153e-01, -6.3307e-01,
+         3.6878e-01,  4.8085e-01, -1.5487e-01,  9.9554e-01, -9.0829e-01,
+         2.5431e-01,  9.4180e-01, -1.2647e-01,  2.3795e-01,  1.9553e-01,
+        -3.0545e-01,  3.6477e-01, -3.0261e-01, -4.8895e-01,  5.1306e-01,
+         2.2152e-01,  6.0651e-01,  3.9544e-01, -4.7221e-02, -4.5684e-01,
+         5.0311e-02, -2.1109e-01, -5.0616e-01,  3.2290e-02,  3.4088e-01,
+        -1.1420e+00,  9.2204e-02, -1.9114e-01, -5.1706e-01,  1.7435e-01,
+         5.6200e-02,  2.5108e-01, -4.0158e-01, -3.5337e-01, -8.2669e-01,
+        -2.3360e-01, -4.3221e-01,  2.9261e-01,  6.5255e-02, -3.8079e-01,
+        -2.4087e-01, -1.5773e+00, -4.6716e-01, -7.2257e-02,  5.6511e-01,
+         2.6573e-01,  4.5249e-01, -6.2717e-01,  5.0972e-01, -4.3032e-01,
+        -9.9835e-02, -4.0231e-01,  9.3417e-03, -1.1793e+00, -6.2840e-02,
+        -4.6870e-01,  5.5757e-01, -9.4717e-01, -2.2371e+00, -2.7370e-01,
+         4.1855e-01,  5.5083e-01,  2.3697e-01, -1.6041e-01, -1.2996e+00,
+         5.9495e-01,  1.6916e-02,  4.9172e-02, -5.5575e-02,  6.9674e-01,
+         7.0216e-01,  1.1453e+00, -4.7095e-01,  2.3526e-02,  1.2029e+00,
+         5.1759e-01, -6.7203e-02,  7.2502e-02,  6.7398e-01,  5.4329e-01,
+        -1.4219e-01, -1.1951e-01, -5.5637e-01, -6.0986e-01, -1.7533e-01,
+         5.3981e-01, -9.5992e-01,  3.9557e-01,  7.1835e-01, -6.4142e-01,
+        -5.3752e-01, -5.0029e-01, -4.4551e-01])
+
+sent3[11] = "Your a twat, you just delete things that you dont have a clue about! Che Finlay Will orientate your ass!! He'l find you!!."
 
 mean3[13] = tensor([ 1.1353e+00,  7.4795e-01,  5.9857e-02, -8.7481e-01, -6.7737e-01,
         -3.2840e-01,  4.4386e-01,  1.0137e+00,  1.2514e-01, -2.5784e-01,

diff --git a/bert.py b/bert.py
@@ -215,8 +215,8 @@ def cosine_dist(vec1, vec2):
 def visualize_dendrogram():
     dists = []
     labels = []
-    for i, m1 in enumerate(mean3):
-        for j, m2 in enumerate(mean3):
+    for i, m1 in enumerate(mean):
+        for j, m2 in enumerate(mean):
             if j > i:
                 dist = cosine(m1, m2)
                 if dist > 0:
@@ -246,10 +246,10 @@ if __name__ == '__main__':
 
     # mean and sentences saved in bert_vectors.py
     # tables = ["jigsaw-toxic.csv"]
-    # chosen_class = 24
+    # chosen_class = 11
     # model, tokenizer = load_model_and_tokenizer()
-    # texts = get_texts(tables, chosen_class, added_sent=True)
-    # class_mean, sentence = get_class_mean_and_sentence(model, tokenizer, texts, chosen_class, only_class_word=True)
+    # texts = get_texts(tables, chosen_class, added_sent=False)
+    # class_mean, sentence = get_class_mean_and_sentence(model, tokenizer, texts, chosen_class, only_class_word=False)
     # print(sentence)
     # print(class_mean)
 
